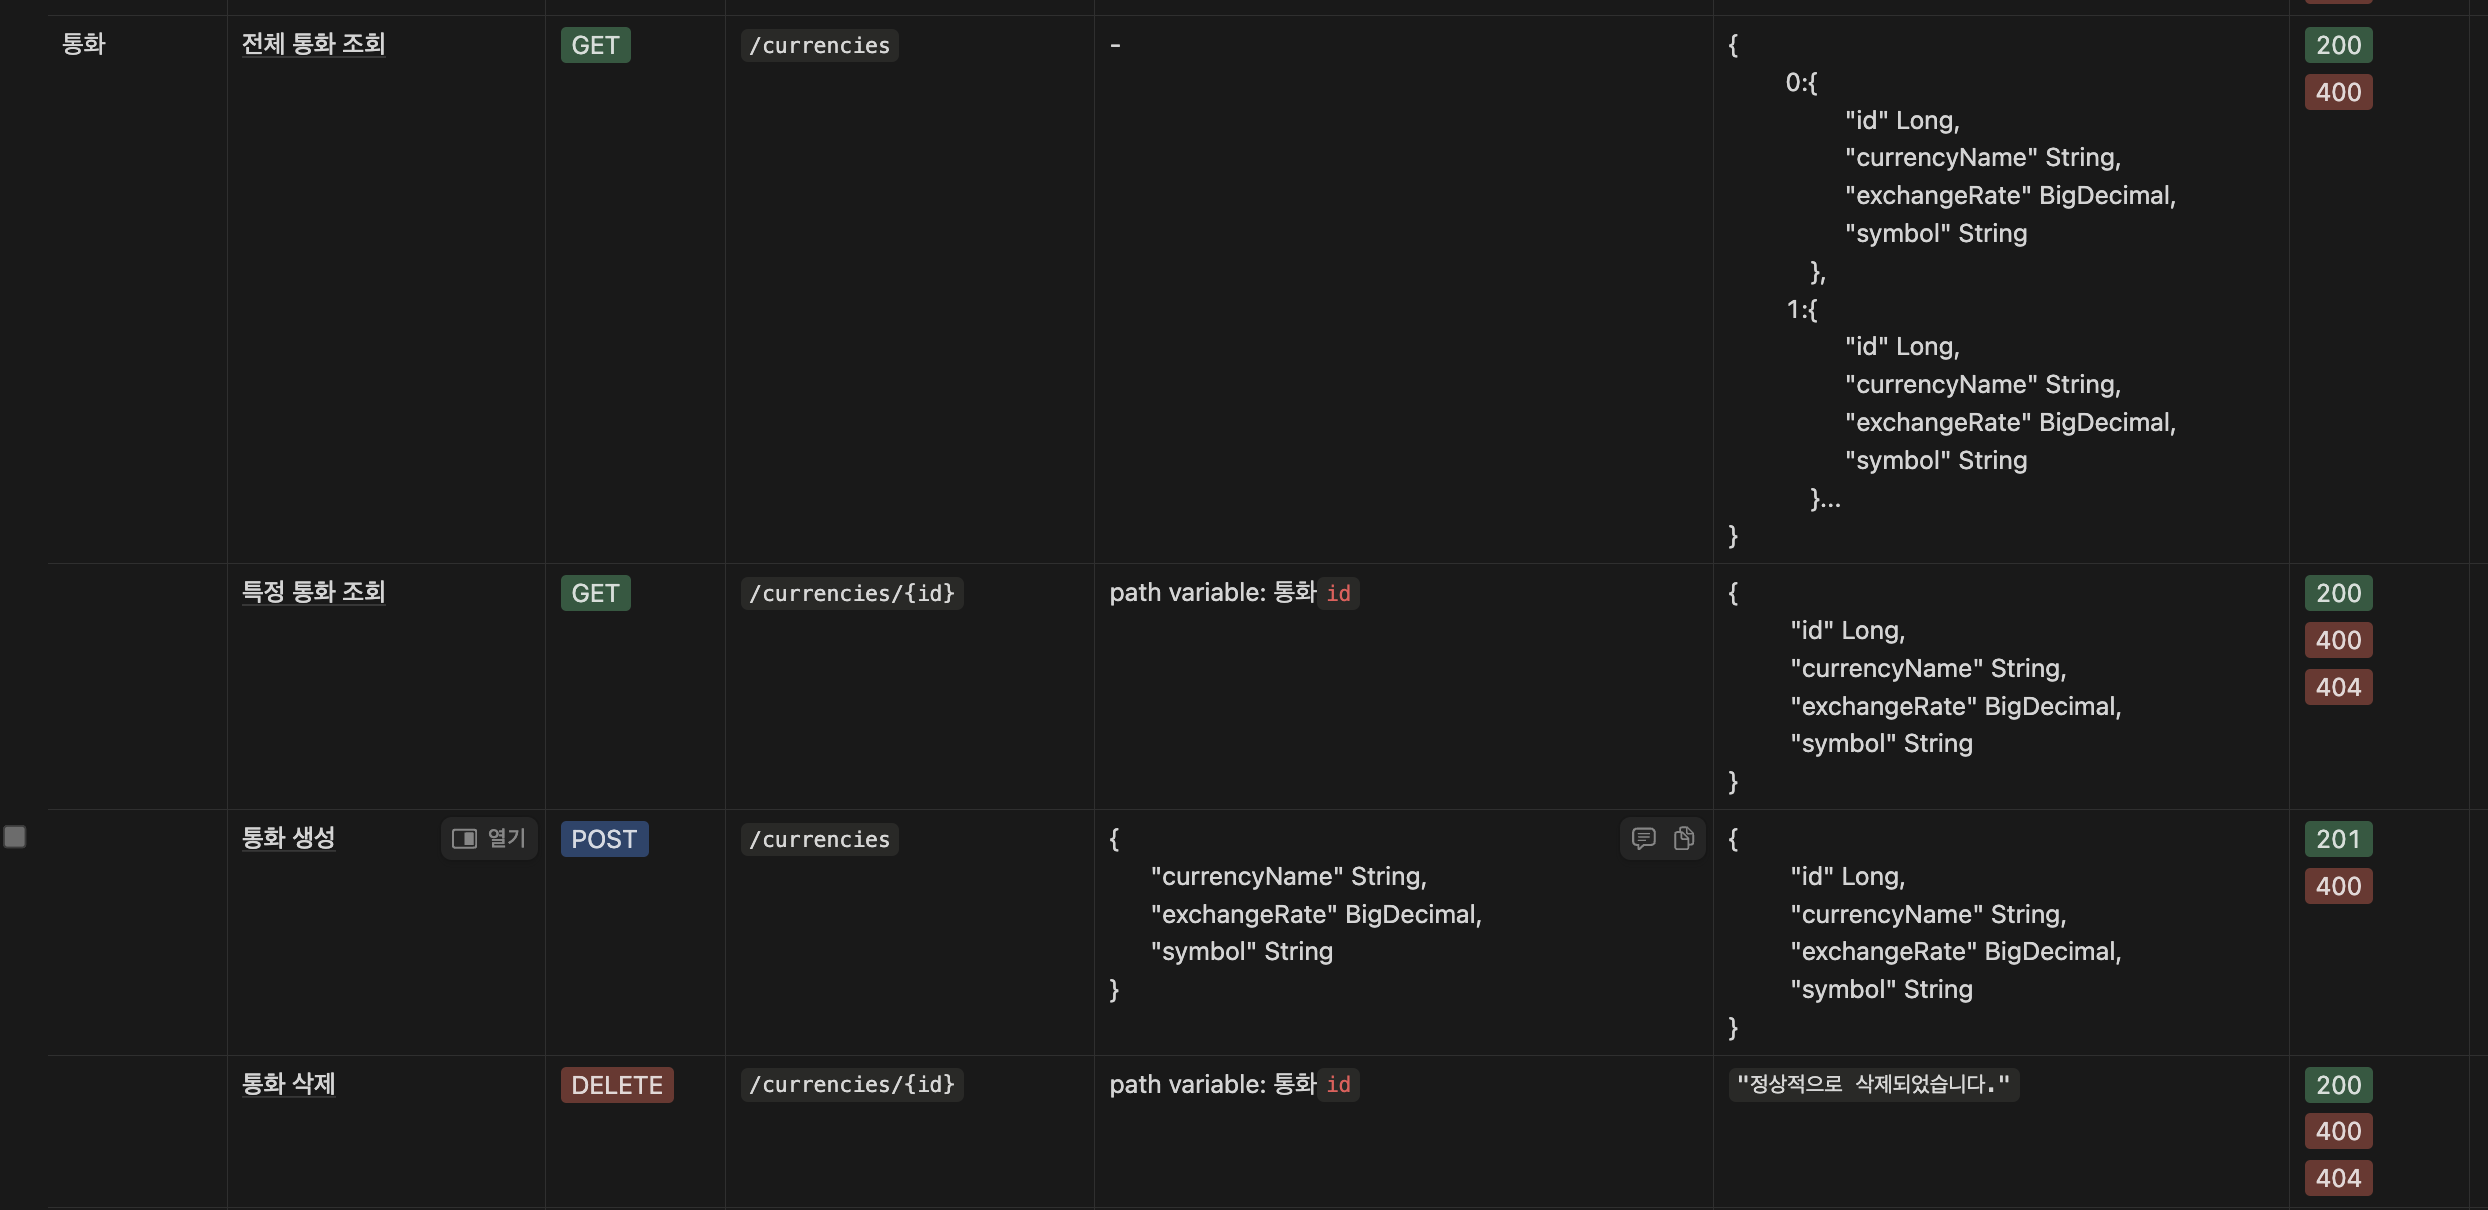
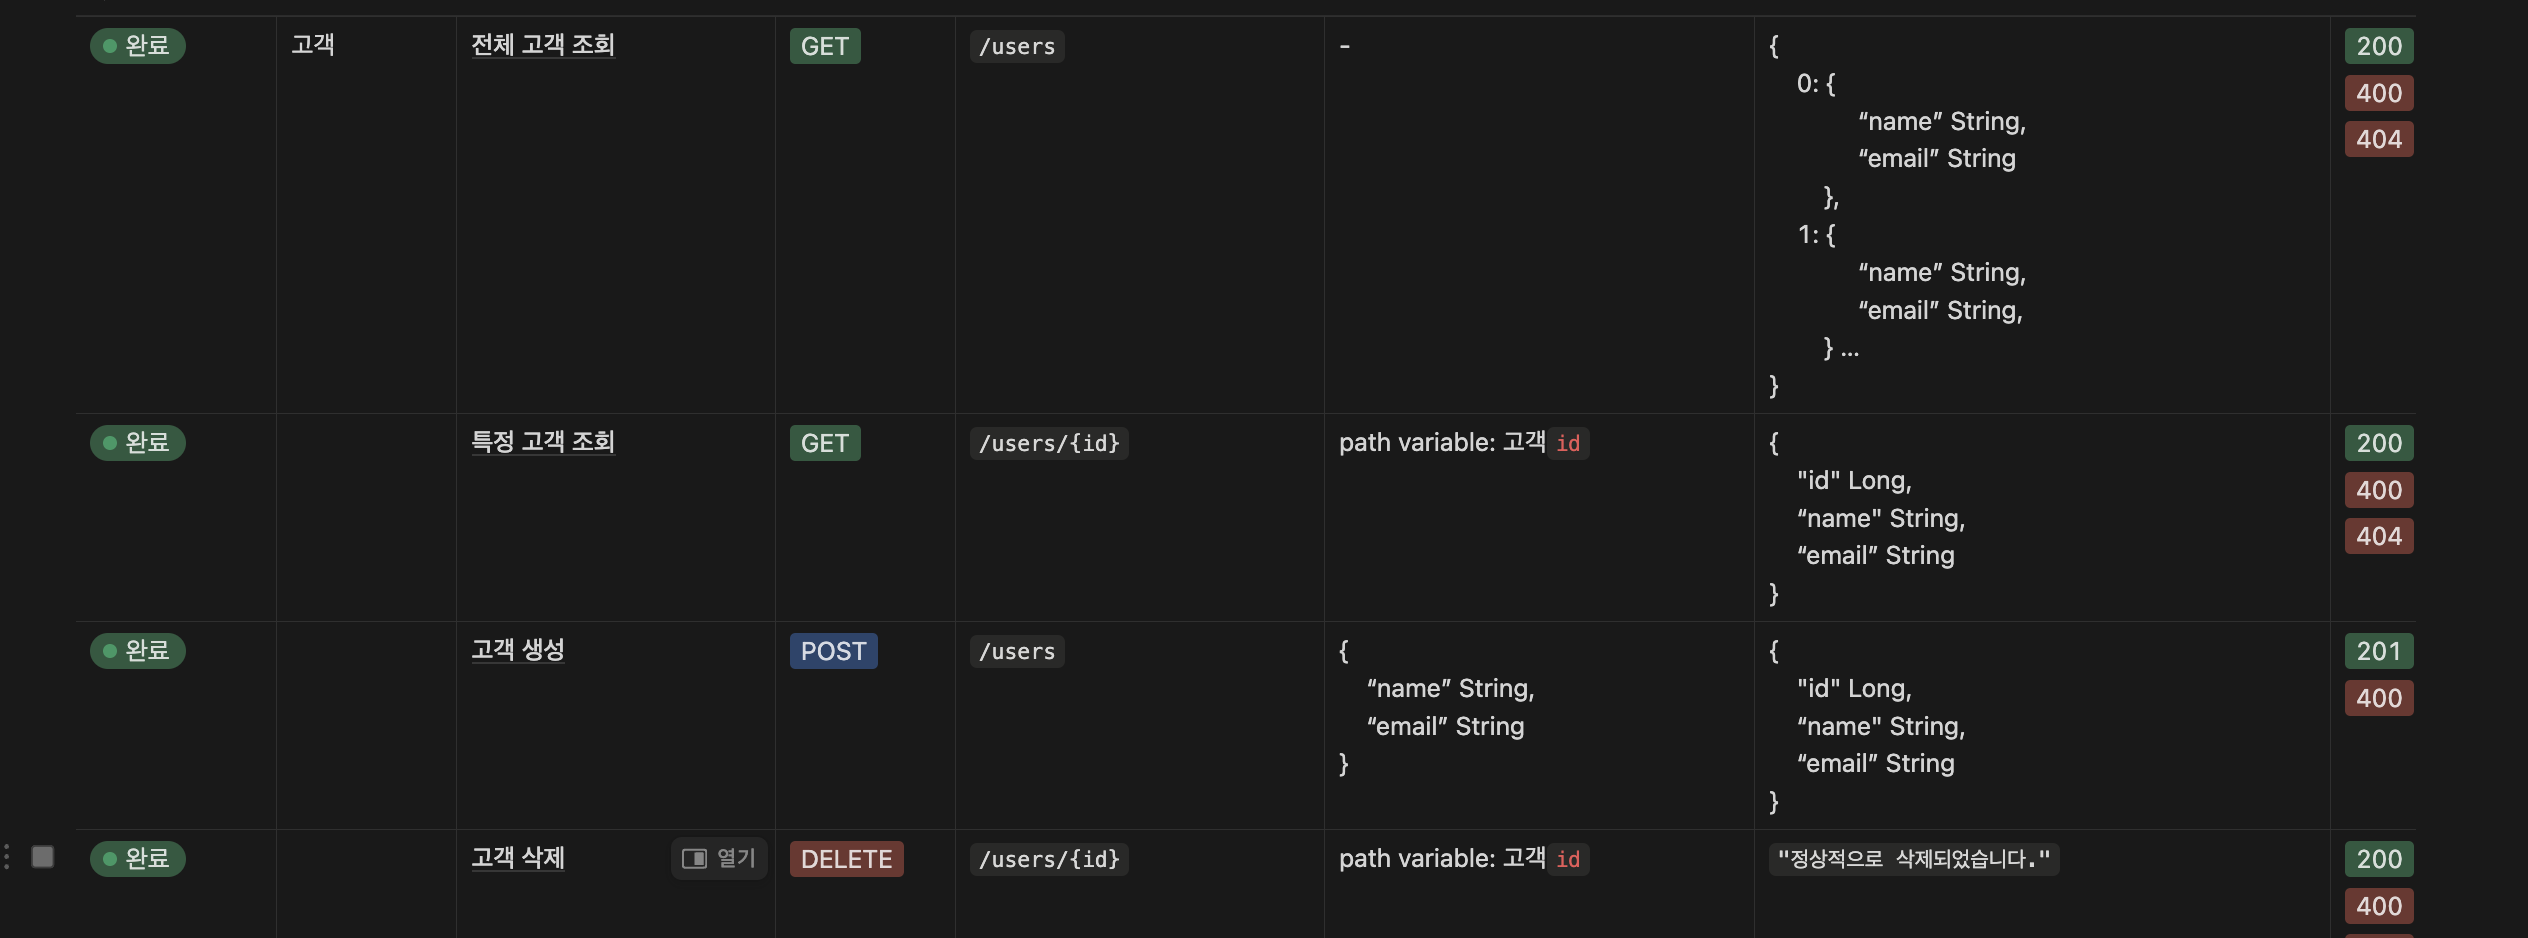
docs: readme img/ERD, API 수정2

diff --git a/README.md b/README.md
@@ -21,4 +21,4 @@
 
 ![](./img/api2.png)
 
-![](./img/api3.png)
+![](./img/api4.png)
